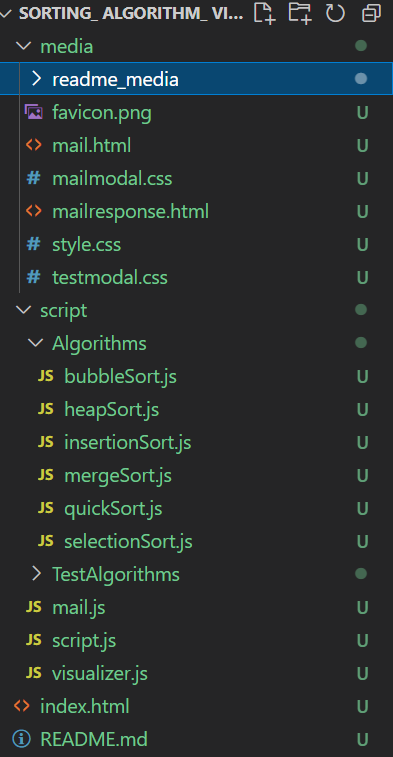
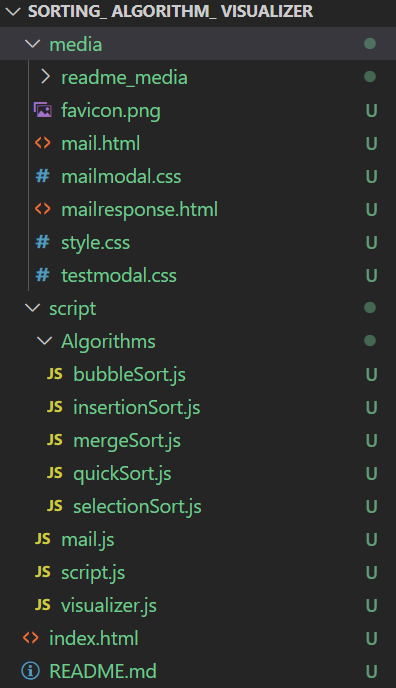
Add files via upload

Changed region(s): [[0.0, 0.0, 1.0, 1.0], [0.8855, 0.4884, 0.9466, 1.0], [0.8244, 0.0, 0.8855, 0.0305]]

diff --git a/index.html b/index.html
@@ -45,38 +45,14 @@
         <span id="timer">Timer</span>
       </nav>
     </header>
-    <modal id="modal">
-      <div class="modalcontent">
-        <div class="modalheader">
-          <h2>Running Test!</h2>
-          <span><button id="closemodal">&times;</button></span>
-        </div>
-        <div class="modalbody" id="modalbody">
-          <div class="testelements" id="heaptrue">
-            &#10003; Heap Sort Algorithm Successfull!
-            <a href="https://www.geeksforgeeks.org/heap-sort/" target="_blank"
-              ><i class="fas fa-info"></i
-            ></a>
-          </div>
-          <div class="testelements" id="heapfalse">
-            &times; Heap Sort Algorithm Falied!
-            <a href="https://www.geeksforgeeks.org/heap-sort/" target="_blank"
-              ><i class="fas fa-info"></i
-            ></a>
-          </div>
-        </div>
-        <div class="modalfooter">
-          <button id="testvisualize">Lets Visualize!</button>
-        </div>
-      </div>
-    </modal>
     <visualizer id="container">
       <!-- visualization container -->
     </visualizer>
+    <span><button id="ai">AI</button></span>
     <footer class="footer">
       <!-- footer area -->
       &copy; 2021 Saravanan Sathiyamoorthi
-      <a href="https://github.com/SARAVANAN-SATHIYAMOORTHI"
+      <a href="https://github.com/saravanan-sathiyamoorthi/"
         ><i class="fab fa-github"></i> Git-hub Repository</a
       >
       <a

diff --git a/script/script.js b/script/script.js
@@ -57,24 +57,7 @@ const sizeOf = () => {
 
 window.onload = sizeOf();
 
-const openmodal = () => {
-  modal.style.display = "block";
-};
-
-const closemodal = () => {
-  modal.style.display = "none";
-  sizeOf();
-};
-
-const visualize_fun = () => {
-  sizeOf();
-  closemodal();
-};
-
 create_array.addEventListener("click", newArray);
 array_size.addEventListener("input", sizeOf);
-test_btn.addEventListener("click", openmodal);
-close_btn.addEventListener("click", closemodal);
-visualize_btn.addEventListener("click", visualize_fun);
 
 // Done by : Saravanan Sathiyamoorthi

diff --git a/media/style.css b/media/style.css
@@ -130,6 +130,24 @@ modal {
   color: chartreuse;
 }
 
+#ai {
+  position: fixed;
+  top: 0%;
+  right: 10%;
+  margin-top: 15px;
+  margin-right: 15px;
+  z-index: 7;
+  border: 1px solid whitesmoke;
+  border-radius: 8px;
+  padding: 5px 20px;
+  color: whitesmoke;
+}
+
+#ai:hover {
+  border: 1px solid turquoise;
+  color: turquoise;
+}
+
 /* 
 Done by : Saravanan Sathiyamoorthi
  */

diff --git a/script/visualizer.js b/script/visualizer.js
@@ -8,7 +8,7 @@ async function visualize(target, height, color, delay_time) {
       height +
       "px; width: " +
       width +
-      "px;margin : 0px  0.5px ;background :" +
+      "px;margin : 0px  0.25px ;background :" +
       color +
       ";";
   }, delay_time);

diff --git a/README.md b/README.md
@@ -33,9 +33,9 @@ The following are the sorting algorithms that are visualized.
 ### Code Layout and Animations:
 
 The following is the structure of the code -
-
-
 ![file structure](./media/readme_media/file_structure.png)
+![file structure](./media/readme_media/file_structure2.png)
+![file structure](./media/readme_media/file_structure3.png)
 
 The UI design of Webpage :
 
